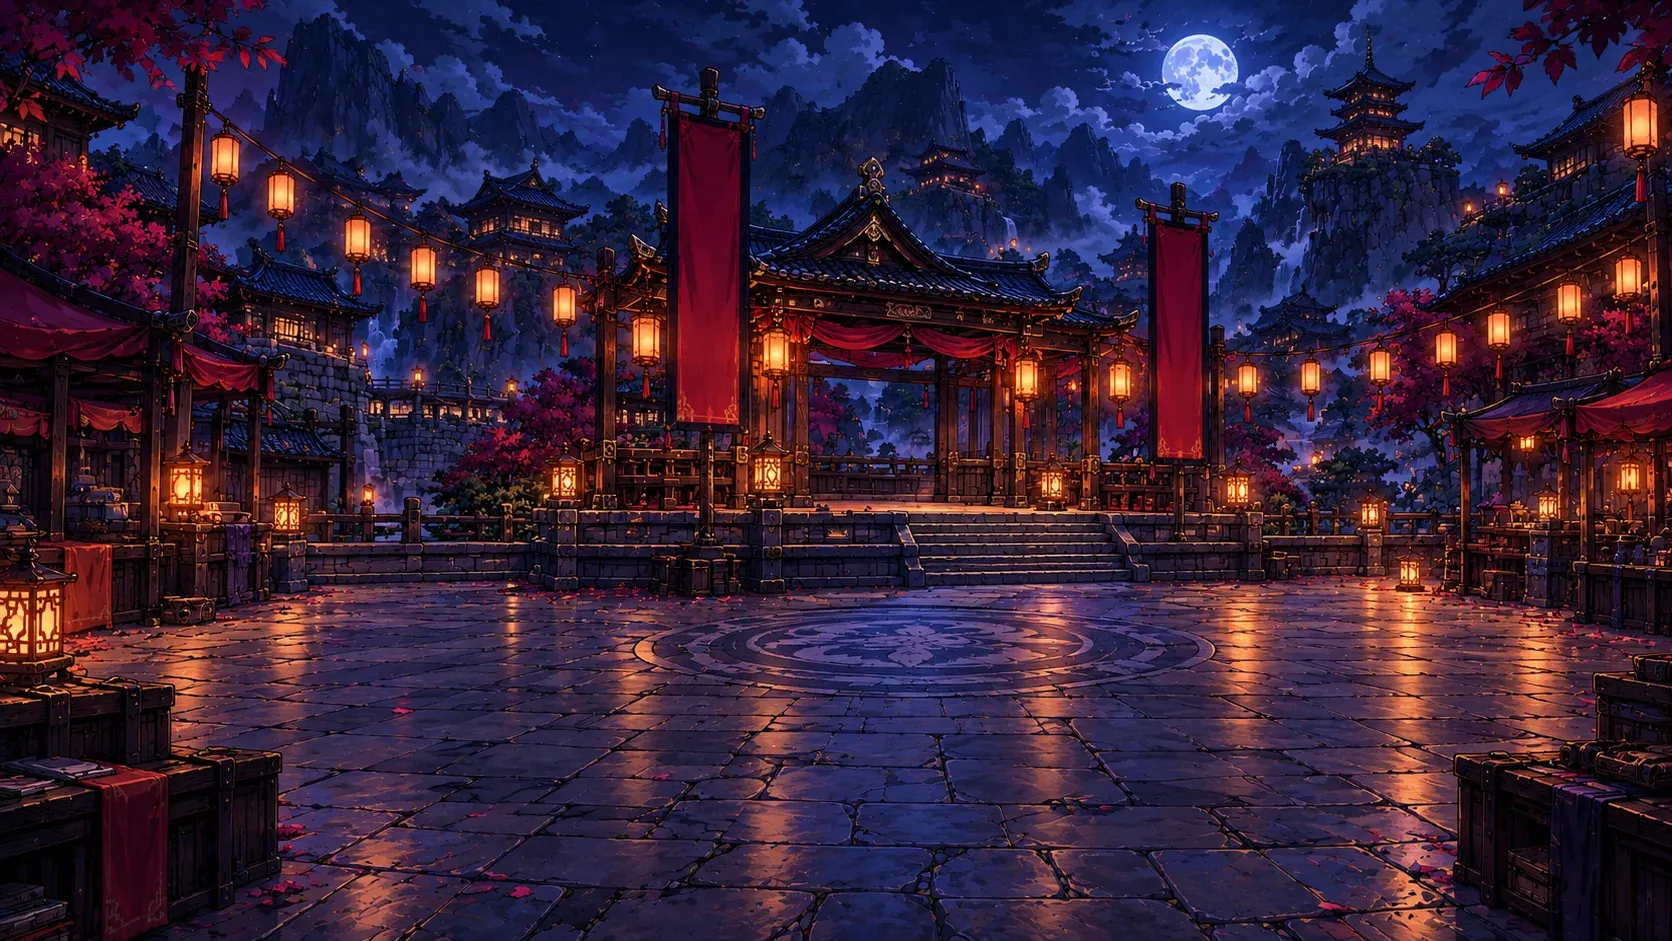
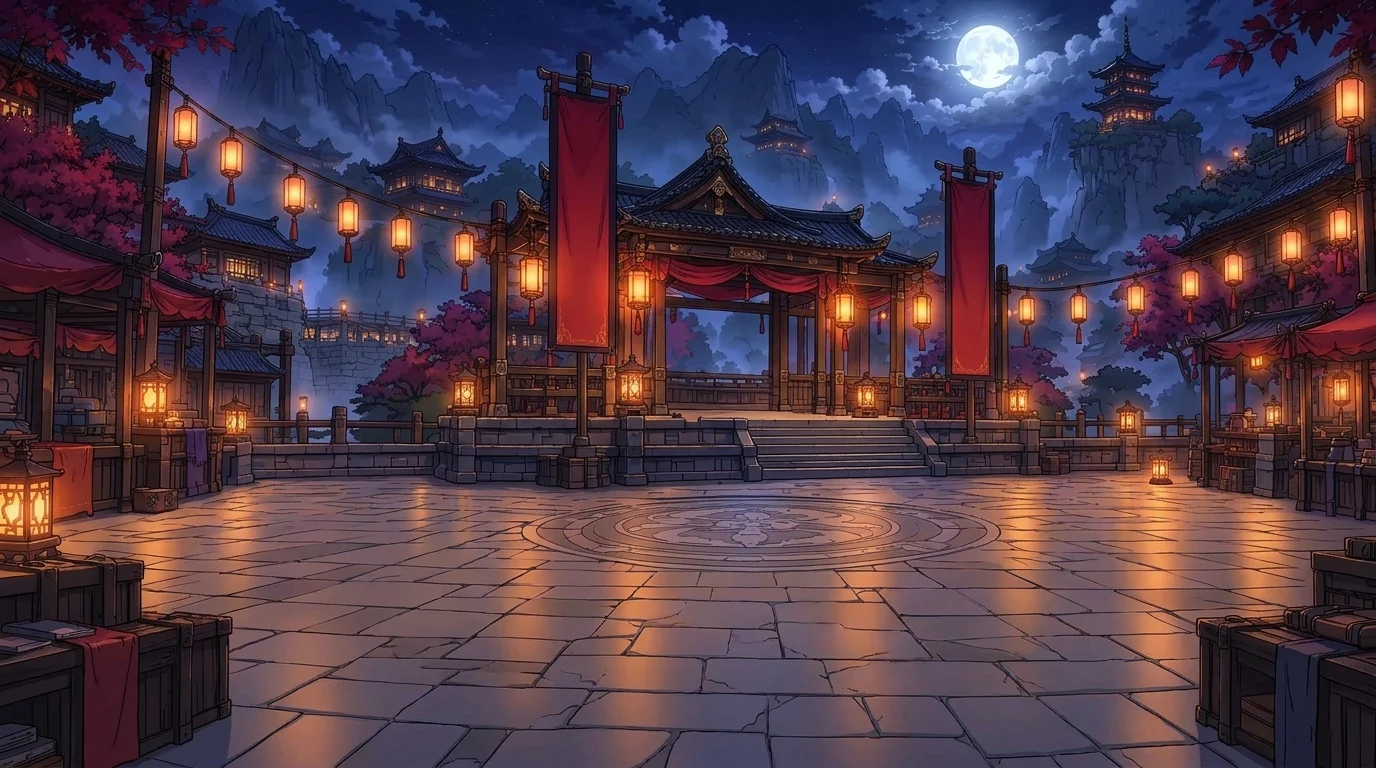
feat: add new game locations, assets, and update UI views

diff --git a/src/ui/meta/views/save-creator.js b/src/ui/meta/views/save-creator.js
@@ -48,7 +48,7 @@ export function createSaveCreatorView(deps) {
     const affinityChoices = deps.basicElementIds.map((id, index) => `<label class="affinity-choice creator-affinity-choice" style="--affinity-color:#${deps.elements[id].color.toString(16).padStart(6, "0")}"><input type="radio" name="affinity" value="${id}" ${index === 0 ? "checked" : ""}><img src="${deps.elementIcon(id)}" alt="" width="512" height="512"><span><strong>${deps.elementName(id)}</strong><small>Afinidad básica</small></span><b class="creator-affinity-check" aria-hidden="true">✓</b></label>`).join("");
     const affinity = deps.basicElementIds[0];
     const color = `#${deps.elements[affinity].color.toString(16).padStart(6, "0")}`;
-    const preview = rasterCharacterPreviewMarkup({ character: { bodyType: "male", hair: 1 } }, "0.82.8", { backdrop: elementParticlesMarkup(affinity) });
+    const preview = rasterCharacterPreviewMarkup({ character: { bodyType: "male", hair: 1 } }, "0.82.9", { backdrop: elementParticlesMarkup(affinity) });
     const hairChoices = CREATOR_HAIR_STYLES.map(({ id, label }) => `<option value="${id}" ${id === 1 ? "selected" : ""}>${label}</option>`).join("");
     return `
       <section class="dojo-card creator-card creator-customizer" style="--creator-affinity:${color}">
@@ -100,7 +100,7 @@ export function createSaveCreatorView(deps) {
       const updateGender = () => {
         preview.dataset.bodyType = gender.value;
         const affinity = form.querySelector('input[name="affinity"]:checked').value;
-        preview.innerHTML = rasterCharacterPreviewMarkup({ character: { bodyType: gender.value, hair: Number(hair.value) } }, "0.82.8", { backdrop: elementParticlesMarkup(affinity) });
+        preview.innerHTML = rasterCharacterPreviewMarkup({ character: { bodyType: gender.value, hair: Number(hair.value) } }, "0.82.9", { backdrop: elementParticlesMarkup(affinity) });
       };
       scope.listen(name, "input", () => { name.setCustomValidity(""); root.querySelector("[data-creator-name]").textContent = name.value.trim() || "Tu combatiente"; });
       scope.listen(gender, "change", updateGender);

diff --git a/styles.css b/styles.css
@@ -561,7 +561,7 @@ input, select, button { font: inherit; }
 }
 
 /* Búsqueda de Haru: tres decisiones reutilizan un único flujo convergente. */
-.doctor-route-screen { display: flex; flex-direction: column; height: 100%; min-height: 0; padding: 92px clamp(18px, 4vw, 58px) 50px; color: #eaf4fb; background: radial-gradient(circle at 78% 18%, rgba(47,118,137,.18), transparent 28%), linear-gradient(rgba(2,9,17,.62), rgba(2,9,17,.92)), url("assets/locations/battle-dusk-pass.jpg?v=0.20.0") center/cover; }
+.doctor-route-screen { display: flex; flex-direction: column; height: 100%; min-height: 0; padding: 92px clamp(18px, 4vw, 58px) 50px; color: #eaf4fb; background: radial-gradient(circle at 78% 18%, rgba(47,118,137,.18), transparent 28%), linear-gradient(rgba(2,9,17,.62), rgba(2,9,17,.92)), url("assets/locations/battle-dusk-pass.webp?v=0.20.1") center/cover; }
 .doctor-route-screen > header { display: flex; flex: 0 0 auto; align-items: end; justify-content: space-between; gap: 28px; width: 100%; max-width: 1180px; margin: 0 auto 8px; }
 .doctor-route-screen h2 { margin: 4px 0 7px; font-family: Cinzel, serif; color: #f4f0e8; }
 .doctor-route-screen header p:not(.eyebrow), .route-log { color: #afc2cf; }

diff --git a/cipher.css b/cipher.css
@@ -7,7 +7,7 @@
 .cipher-entry-transition .cipher-glyph { width: 140px; }
 .cipher-entry-transition h2 { font-size: 32px; }
 .cipher-entry-transition p:not(.eyebrow) { color: #b8cbd2; font-size: 18px; }
-.cipher-screen { background: radial-gradient(ellipse at 65% 55%, rgba(23,52,65,.65), rgba(2,9,17,.82) 75%), url("assets/locations/battle-dusk-pass.jpg?v=0.20.0") center/cover; }
+.cipher-screen { background: radial-gradient(ellipse at 65% 55%, rgba(23,52,65,.65), rgba(2,9,17,.82) 75%), url("assets/locations/battle-dusk-pass.webp?v=0.20.1") center/cover; }
 .cipher-screen > header { width: min(1120px, 100%); }
 .cipher-screen > header > div > p:last-child { margin-bottom: 0; }
 .cipher-workspace { display: grid; flex: 1; grid-template-columns: minmax(270px, .8fr) minmax(0, 1fr); align-items: center; gap: clamp(28px, 5vw, 78px); width: min(1120px, 100%); min-height: 0; margin: 18px auto 0; animation: cipher-enter .5s ease-out both; }

diff --git a/index.html b/index.html
@@ -40,11 +40,11 @@
   <link rel="icon" href="assets/favicon.png?v=0.20.0" type="image/png">
   <link rel="preload" href="assets/fonts/cinzel-latin-700.woff2" as="font" type="font/woff2" crossorigin>
   <link rel="preload" href="assets/fonts/alegreya-sans-latin-400.woff2" as="font" type="font/woff2" crossorigin>
-  <link rel="stylesheet" href="styles.css?v=0.106.0">
+  <link rel="stylesheet" href="styles.css?v=0.106.1">
   <link rel="stylesheet" href="desktop.css?v=0.83.0">
   <link rel="stylesheet" href="combat-hud.css?v=0.88.1">
   <link rel="stylesheet" href="performance.css?v=0.99.0">
-  <link rel="stylesheet" href="cipher.css?v=0.101.0">
+  <link rel="stylesheet" href="cipher.css?v=0.101.1">
   <link rel="stylesheet" href="creator.css?v=0.105.0">
   <link rel="stylesheet" href="dojo-techniques.css?v=0.107.0">
   <link rel="stylesheet" href="tutorial.css?v=1.0.0">

diff --git a/src/battle/runtime.js b/src/battle/runtime.js
@@ -44,8 +44,8 @@ export const HUD_THEMES = Object.freeze({
   })
 });
 export const BATTLE_ARENAS = Object.freeze([
-  Object.freeze({ texture: "travel-forest", file: "assets/locations/battle-dusk-pass.jpg?v=0.20.0" }),
-  Object.freeze({ texture: "bg-marsh", file: "assets/locations/battle-mist-marsh-water.png?v=0.63.0" }),
+  Object.freeze({ texture: "travel-forest", file: "assets/locations/battle-dusk-pass.webp?v=0.20.1" }),
+  Object.freeze({ texture: "bg-marsh", file: "assets/locations/battle-mist-marsh-water.webp?v=0.63.1" }),
   Object.freeze({ texture: "bg-moon", file: "assets/locations/battle-moon-shrine.jpg?v=0.20.0" })
 ]);
 export const TECHNIQUE_VFX = Object.freeze({

diff --git a/src/asset-urls.js b/src/asset-urls.js
@@ -1,4 +1,4 @@
-export const META_ASSET_VERSION = "0.82.8";
+export const META_ASSET_VERSION = "0.82.9";
 
 export function versionedAsset(path, version) {
   return `${path}?v=${version}`;

diff --git a/artifacts/asset-replacements/README.md b/artifacts/asset-replacements/README.md
@@ -67,3 +67,19 @@ Prompt de extracción usado exclusivamente para `village-outskirts-branches.jpg`
 ```text
 Use case: background-extraction. Edit target: the supplied horizontal game foreground overlay. Remove ONLY the plain white background and all white gaps between the leaves and branches; output genuine transparent alpha. Preserve the supplied artwork faithfully: the same pine branches and needles, red maple leaves, dark twigs, shapes, colors, highlights, linework, and framing at the top, left and right edges. Keep their exact relative positions, full landscape canvas, aspect ratio and generous empty center and lower center; this overlay must register with the original 1376 by 768 canvas. DO NOT crop to the artwork bounds, rearrange, move, redraw, stylize or add branches. The branches at the canvas edges must stay at those same edges. Preserve internal light colored highlights as opaque artwork, but eliminate the white backdrop including its enclosed gaps. Clean antialiased edges without white fringe. No replacement background, no shadows, no text, no new objects.
 ```
+
+## Plaza de Eventos, Paso del Crepúsculo y Marisma
+
+Se convirtieron directamente `event.jpg`, `battle-dusk-pass.jpg` y `battle-mist-marsh-water.jpg` desde `D:/Descargas`, sin generación de imágenes ni alteraciones del encuadre, a los WebP del mismo nombre en `assets/locations/`. Se mantiene la resolución nativa de 1376 × 768, calidad 86 y metadatos eliminados.
+
+| Fondo | Archivo anterior utilizado por el juego | WebP actual |
+| --- | ---: | ---: |
+| Plaza de Eventos | 303.376 bytes | 194.844 bytes |
+| Paso del Crepúsculo | 784.787 bytes | 156.058 bytes |
+| Marisma de los Juncos | 2.147.732 bytes | 104.110 bytes |
+
+Los tres recursos pasan de **3.235.895 a 455.012 bytes**, un **85,9 % menos** que los archivos utilizados inmediatamente antes de este último cambio. Los JPG proporcionados sumaban 2.293.545 bytes. [Informe por archivo](final-backgrounds-report.json).
+
+Se actualizaron las referencias del catálogo de combate, las rutas del médico, el cifrado y las versiones de caché. Los formatos anteriores del Paso y la Marisma se retiraron después de desconectarlos. La copia antigua `battle-mist-marsh.jpg` ya figuraba eliminada por el usuario.
+
+`kagemori.webp` es el fondo activo. `kagemori.png` conservaba una fuente del estilo anterior, sin referencias en el código o CSS: se eliminó y se recuperaron **3.182.738 bytes de disco**, sin cambiar la descarga de Kagemori. `battle-moon-shrine.jpg` sigue en uso y aún conserva el estilo anterior.

diff --git a/docs/ESTADO_ACTUAL.md b/docs/ESTADO_ACTUAL.md
@@ -16,6 +16,7 @@ Este documento es la referencia breve del alcance vigente de *Crónicas del Sell
 - La entrada solo precarga las dos fuentes críticas. Los fondos de aldea, viaje y combate se solicitan al entrar en su vista, con versiones compartidas para evitar descargas redundantes.
 - El mapa de la aldea, los fondos del Cuartel General y Kagemori, los iconos de Golpe veloz y Guardia y los objetos Perrito y Marioneta usan las ilustraciones reemplazadas y optimizadas en WebP. La marioneta sustituye a la silla también en partidas anteriores. El proceso está documentado en [`../artifacts/asset-replacements/README.md`](../artifacts/asset-replacements/README.md).
 - Biblioteca, Arena, Dojo, Gremio, Tablón, Tienda y Torre, junto con el bosque y la salida de la aldea, usan los nuevos fondos ilustrados de 1376 × 768. Las ramas frontales mantienen transparencia real y el parallax de los viajes; las versiones de caché se renuevan con el cambio visual.
+- La Plaza de Eventos, el Paso del Crepúsculo y la Marisma de los Juncos también usan los fondos nuevos optimizados a WebP. Kagemori conserva únicamente su WebP activo; se eliminó el PNG antiguo sin referencias. El Santuario de la Luna sigue usando su fondo anterior.
 - Los tintes sólidos usan la API de Phaser 4 y las operaciones de pausa, reanudación y cierre validan el estado de la escena. Cerrar una transición de subida de nivel cancela sus continuaciones y restaura el HUD.
 - Los iconos accesibles del combate se recortan y tiñen una sola vez por variante. Una caché LRU ligada a Phaser los reutiliza entre misiones y se limpia al destruir la instancia.
 - La misión 1 enseña el combate con una guía de 11 pasos, foco visual y práctica real. Se puede omitir y repetir desde la Biblioteca, disponible como manual desde el inicio; el bestiario sigue requiriendo el libro de Haru.

diff --git a/assets/locations/README.md b/assets/locations/README.md
@@ -1,5 +1,17 @@
 # Fondos de ubicaciones
 
+## Estado vigente
+
+Los nueve fondos de la aldea, Kagemori, los caminos de salida y bosque y los escenarios `battle-dusk-pass.webp` y `battle-mist-marsh-water.webp` utilizan las imágenes proporcionadas por el usuario el 28 de octubre de 2026, optimizadas a WebP. Los fondos opacos nuevos conservan sus 1376 × 768 píxeles; las ramas conservan ese lienzo con transparencia real.
+
+`kagemori.webp` es el fondo activo de la investigación y del catálogo compartido. El antiguo `kagemori.png` era una copia de la fuente anterior sin referencias del juego: se eliminó para no conservar 3.182.738 bytes innecesarios. Esta limpieza reduce el espacio en disco, no la descarga de la misión, que ya utilizaba el WebP.
+
+Los formatos anteriores `battle-dusk-pass.jpg` y `battle-mist-marsh-water.png` se retiraron al actualizar sus referencias a WebP. La copia anterior `battle-mist-marsh.jpg` ya estaba eliminada. `battle-moon-shrine.jpg` sigue activo en el catálogo de combate y aún conserva el estilo anterior.
+
+Consulta los tamaños, la procedencia y las vistas integradas en [el informe de reemplazos](../../artifacts/asset-replacements/README.md).
+
+## Historial del estilo anterior
+
 Estos nueve fondos se usan en las escenas interactivas de la Aldea del Horizonte.
 
 - `archive.webp` fue proporcionado por el usuario como **Biblioteca Mística Bajo la Luna.png** y optimizado para la web.
